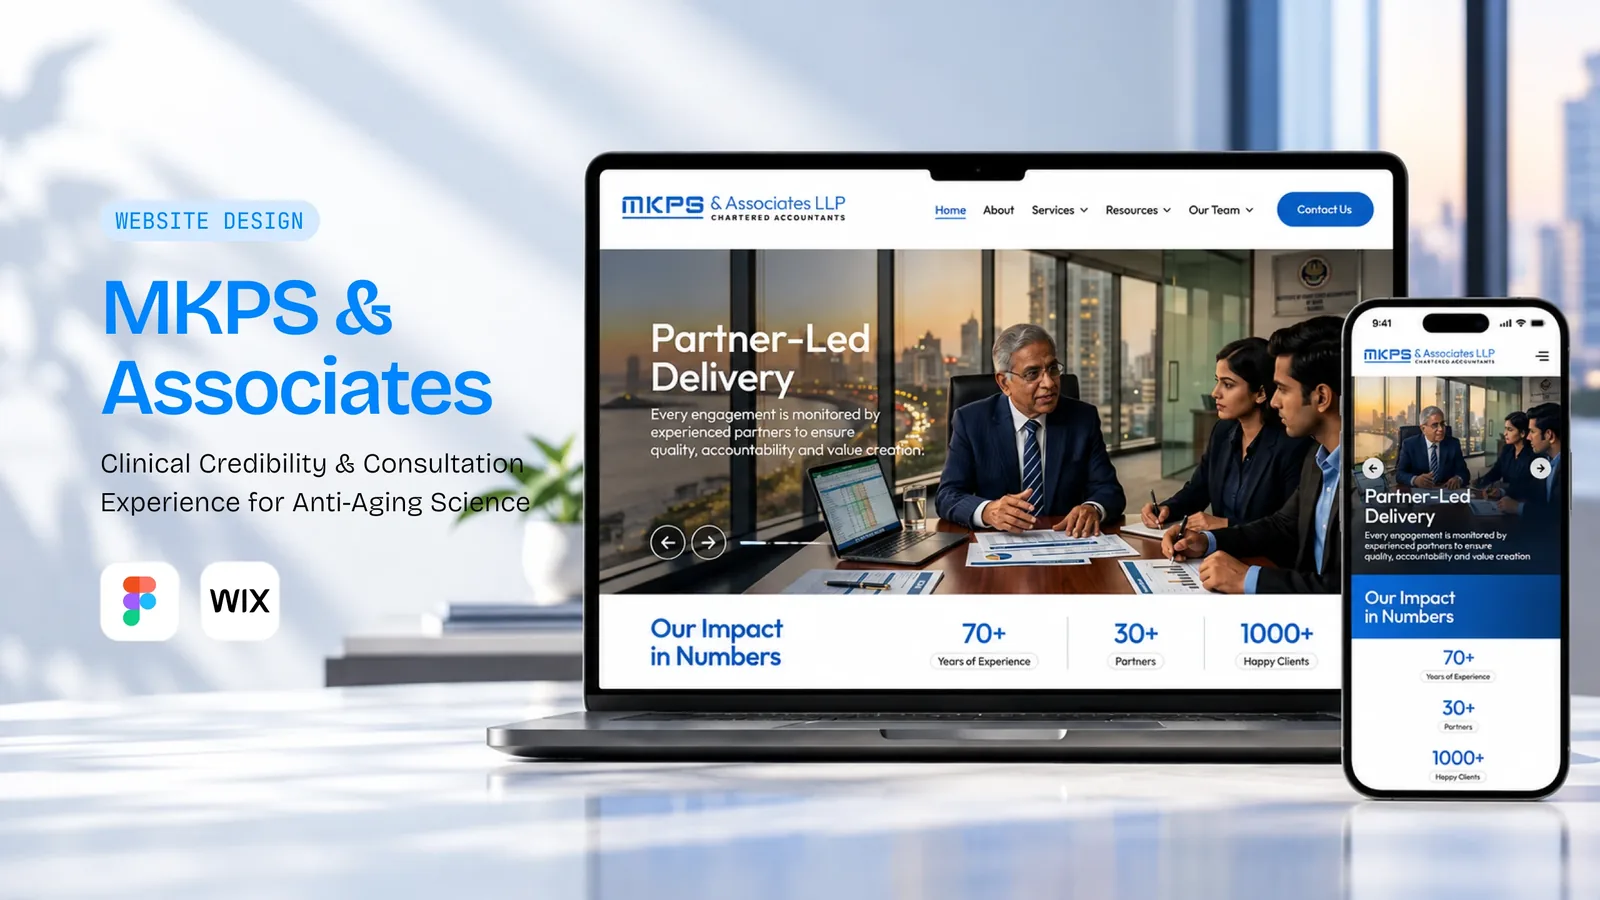
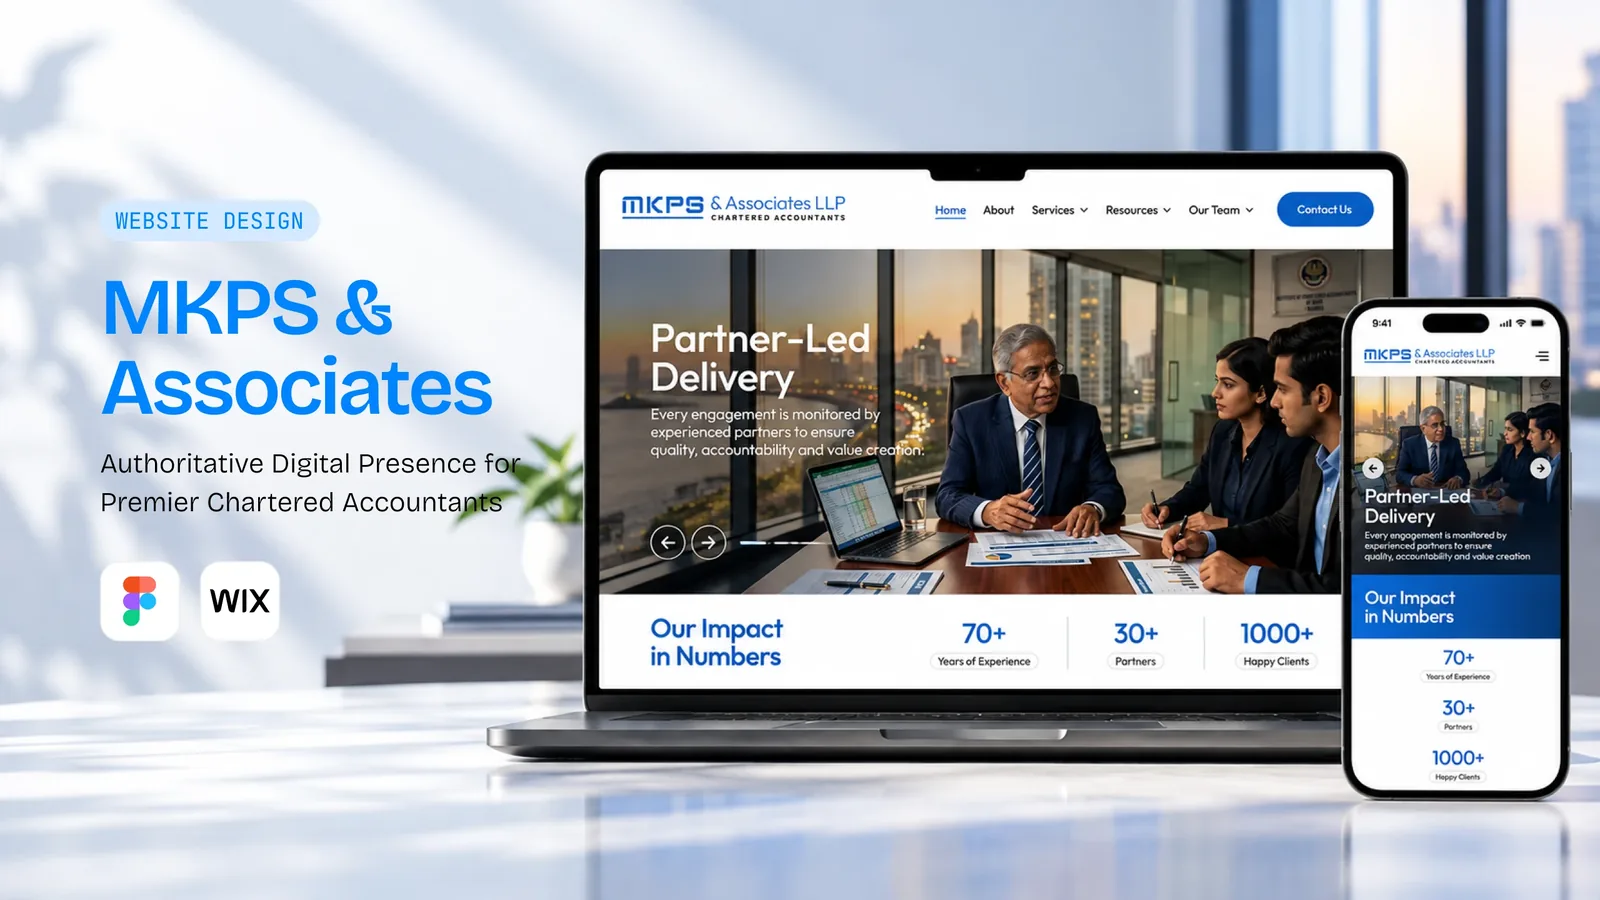
Real desktop and phone captures in "the finished site"
Each Website Design project ships one desktop and one phone capture, so the
section is now that pair rather than a row of labelled stand-ins. The columns
are split 77/23 — the same proportion as the two aspect ratios — so whatever
the gutter costs comes off both sides evenly and the shots land the same
height. The hairline is an outline rather than a border, since a border would
take layout width and throw that match off by a few pixels. Below 640px they
stack and the phone is capped at 190px, which would otherwise run to twice the
viewport height.

That drops the section from three blocks to two. Three was the right call when
all three were placeholders; there are two real captures per project and
padding the row back out would mean re-introducing a stand-in beside real art.

Also re-exports the MKPS & Associates thumbnail, which now carries its own
headline instead of DeAge's.

Sources are 31MB of PNG and JPEG; the committed webp copies are 1.15MB for all
twelve, at 1600px for the desktop shots and 720px for the phones.

Changed region(s): [[0.0625, 0.4978, 0.3438, 0.5911]]

diff --git a/assets/css/style.css b/assets/css/style.css
@@ -1542,6 +1542,15 @@ em, .em        { font-style: italic; font-weight: 500; }
   background: var(--mist); border: 1px solid var(--line); border-radius: var(--r-card);
 }
 .on-dark .shot__img { border-color: var(--line-dark); }
+/* A capture shown whole, at its own aspect — no crop, no fixed ratio. The
+   hairline is an outline rather than a border: it draws inside the box without
+   taking layout width, so the paired shots stay exactly the same height. */
+.shot__art {
+  display: block; width: 100%; height: auto;
+  background: var(--mist); border-radius: var(--r-card);
+  outline: 1px solid var(--line); outline-offset: -1px;
+}
+.on-dark .shot__art { outline-color: var(--line-dark); }
 .on-dark .shot__frame { background: var(--ink-2); border-color: var(--line-dark); }
 .on-dark .shot__label { background: var(--ink-3); border-color: var(--line-dark); color: var(--on-dark-2); }
 
@@ -1552,6 +1561,17 @@ em, .em        { font-style: italic; font-weight: 500; }
   .showcase { grid-template-columns: 1fr; }
   /* stacked, the wide block has no row to span — match the others */
   .showcase > .shot--wide .shot__frame { aspect-ratio: 16 / 10; }
+}
+
+/* Desktop capture beside its phone capture. The columns are split in the same
+   proportion as the two aspect ratios (3024/1964 : 1206/2622), so whatever the
+   gutter costs comes off both sides evenly and the pair lands the same height. */
+.showcase--pair { grid-template-columns: 77fr 23fr; align-items: start; }
+.showcase--pair > .shot--wide { grid-column: auto; }
+@media (max-width: 640px) {
+  .showcase--pair { grid-template-columns: 1fr; justify-items: center; }
+  /* full-bleed, the phone would run over twice the viewport height */
+  .showcase--pair > .shot--phone { width: min(190px, 60%); }
 }
 
 /* --- design decisions (website design) ------------------------------------ */

diff --git a/work/mkps-associates.html b/work/mkps-associates.html
@@ -297,21 +297,16 @@
         <h2 class="h2 sec-head__title">What <span class="hl">shipped.</span></h2>
       </div>
     </div>
-    <div class="showcase">
+    <div class="showcase showcase--pair">
       
       
       <figure class="shot shot--wide" data-reveal>
-        <div class="shot__frame"><span class="shot__label">MKPS Corporate Homepage &mdash; Desktop</span></div>
+        <img class="shot__art" src="../assets/img/work/mkps-associates-desktop.webp" alt="MKPS &amp; Associates corporate site on desktop" width="1600" height="1039" loading="lazy" decoding="async">
         
       </figure>
       
-      <figure class="shot " data-reveal>
-        <div class="shot__frame"><span class="shot__label">Practice Pillar &mdash; Tax &amp; Corporate Advisory</span></div>
-        
-      </figure>
-      
-      <figure class="shot " data-reveal>
-        <div class="shot__frame"><span class="shot__label">Partner Leadership Directory</span></div>
+      <figure class="shot  shot--phone" data-reveal>
+        <img class="shot__art" src="../assets/img/work/mkps-associates-mobile.webp" alt="MKPS &amp; Associates practice areas on mobile" width="720" height="1565" loading="lazy" decoding="async">
         
       </figure>
       

diff --git a/work/swastha-healthcare.html b/work/swastha-healthcare.html
@@ -297,21 +297,16 @@
         <h2 class="h2 sec-head__title">What <span class="hl">shipped.</span></h2>
       </div>
     </div>
-    <div class="showcase">
+    <div class="showcase showcase--pair">
       
       
       <figure class="shot shot--wide" data-reveal>
-        <div class="shot__frame"><span class="shot__label">Swastha Healthcare Homepage &mdash; Desktop</span></div>
+        <img class="shot__art" src="../assets/img/work/swastha-healthcare-desktop.webp" alt="Swastha Healthcare site on desktop" width="1600" height="1039" loading="lazy" decoding="async">
         
       </figure>
       
-      <figure class="shot " data-reveal>
-        <div class="shot__frame"><span class="shot__label">Doctor Profile &amp; Branch Visiting Hours</span></div>
-        
-      </figure>
-      
-      <figure class="shot " data-reveal>
-        <div class="shot__frame"><span class="shot__label">Preventative Health Check Packages</span></div>
+      <figure class="shot  shot--phone" data-reveal>
+        <img class="shot__art" src="../assets/img/work/swastha-healthcare-mobile.webp" alt="Swastha Healthcare appointment flow on mobile" width="720" height="1565" loading="lazy" decoding="async">
         
       </figure>
       

diff --git a/work/sacred-lotus-retreat.html b/work/sacred-lotus-retreat.html
@@ -297,21 +297,16 @@
         <h2 class="h2 sec-head__title">What <span class="hl">shipped.</span></h2>
       </div>
     </div>
-    <div class="showcase">
+    <div class="showcase showcase--pair">
       
       
       <figure class="shot shot--wide" data-reveal>
-        <div class="shot__frame"><span class="shot__label">Sacred Lotus Homepage &mdash; Hero Scroll</span></div>
+        <img class="shot__art" src="../assets/img/work/sacred-lotus-retreat-desktop.webp" alt="Sacred Lotus Retreat site on desktop" width="1600" height="1039" loading="lazy" decoding="async">
         
       </figure>
       
-      <figure class="shot " data-reveal>
-        <div class="shot__frame"><span class="shot__label">Wellness Program &amp; Therapy Itinerary</span></div>
-        
-      </figure>
-      
-      <figure class="shot " data-reveal>
-        <div class="shot__frame"><span class="shot__label">Eco-Cottage Accommodation Gallery</span></div>
+      <figure class="shot  shot--phone" data-reveal>
+        <img class="shot__art" src="../assets/img/work/sacred-lotus-retreat-mobile.webp" alt="Sacred Lotus Retreat booking flow on mobile" width="720" height="1565" loading="lazy" decoding="async">
         
       </figure>
       

diff --git a/work/aarshaveda.html b/work/aarshaveda.html
@@ -297,21 +297,16 @@
         <h2 class="h2 sec-head__title">What <span class="hl">shipped.</span></h2>
       </div>
     </div>
-    <div class="showcase">
+    <div class="showcase showcase--pair">
       
       
       <figure class="shot shot--wide" data-reveal>
-        <div class="shot__frame"><span class="shot__label">Aarshaveda Storefront &mdash; Full Desktop Scroll</span></div>
+        <img class="shot__art" src="../assets/img/work/aarshaveda-desktop.webp" alt="Aarshaveda storefront on desktop" width="1600" height="1039" loading="lazy" decoding="async">
         
       </figure>
       
-      <figure class="shot " data-reveal>
-        <div class="shot__frame"><span class="shot__label">Product Detail Page &mdash; Mobile View</span></div>
-        
-      </figure>
-      
-      <figure class="shot " data-reveal>
-        <div class="shot__frame"><span class="shot__label">Wellness Regimen &amp; Bundle Builder</span></div>
+      <figure class="shot  shot--phone" data-reveal>
+        <img class="shot__art" src="../assets/img/work/aarshaveda-mobile.webp" alt="Aarshaveda product browsing on mobile" width="720" height="1565" loading="lazy" decoding="async">
         
       </figure>
       

diff --git a/work/shap-infotech.html b/work/shap-infotech.html
@@ -297,21 +297,16 @@
         <h2 class="h2 sec-head__title">What <span class="hl">shipped.</span></h2>
       </div>
     </div>
-    <div class="showcase">
+    <div class="showcase showcase--pair">
       
       
       <figure class="shot shot--wide" data-reveal>
-        <div class="shot__frame"><span class="shot__label">Shap Infotech Homepage &mdash; Desktop</span></div>
+        <img class="shot__art" src="../assets/img/work/shap-infotech-desktop.webp" alt="Shap Infotech site on desktop" width="1600" height="1039" loading="lazy" decoding="async">
         
       </figure>
       
-      <figure class="shot " data-reveal>
-        <div class="shot__frame"><span class="shot__label">Cloud &amp; DevOps Service Hub</span></div>
-        
-      </figure>
-      
-      <figure class="shot " data-reveal>
-        <div class="shot__frame"><span class="shot__label">Engagement Models &amp; Delivery Framework</span></div>
+      <figure class="shot  shot--phone" data-reveal>
+        <img class="shot__art" src="../assets/img/work/shap-infotech-mobile.webp" alt="Shap Infotech service hub on mobile" width="720" height="1565" loading="lazy" decoding="async">
         
       </figure>
       

diff --git a/work/deage.html b/work/deage.html
@@ -297,21 +297,16 @@
         <h2 class="h2 sec-head__title">What <span class="hl">shipped.</span></h2>
       </div>
     </div>
-    <div class="showcase">
+    <div class="showcase showcase--pair">
       
       
       <figure class="shot shot--wide" data-reveal>
-        <div class="shot__frame"><span class="shot__label">DeAge Flagship Homepage &mdash; Desktop</span></div>
+        <img class="shot__art" src="../assets/img/work/deage-desktop.webp" alt="DeAge storefront on desktop" width="1600" height="1039" loading="lazy" decoding="async">
         
       </figure>
       
-      <figure class="shot " data-reveal>
-        <div class="shot__frame"><span class="shot__label">Treatment Protocol &amp; Downtime Guide</span></div>
-        
-      </figure>
-      
-      <figure class="shot " data-reveal>
-        <div class="shot__frame"><span class="shot__label">Curated Formulations &mdash; Product Grid</span></div>
+      <figure class="shot  shot--phone" data-reveal>
+        <img class="shot__art" src="../assets/img/work/deage-mobile.webp" alt="DeAge longevity range on mobile" width="720" height="1565" loading="lazy" decoding="async">
         
       </figure>
       

diff --git a/templates/case-website-design.html b/templates/case-website-design.html
@@ -143,12 +143,12 @@
         <h2 class="h2 sec-head__title">What <span class="hl">shipped.</span></h2>
       </div>
     </div>
-    <div class="showcase">
+    <div class="showcase{{#showcasePair}} showcase--pair{{/showcasePair}}">
       {{/showcase.0}}
       {{#showcase}}
-      <figure class="shot {{#wide}}shot--wide{{/wide}}" data-reveal>
-        <div class="shot__frame"><span class="shot__label">{{{label}}}</span></div>
-        {{#caption}}<figcaption>{{{.}}}</figcaption>{{/caption}}
+      <figure class="shot {{#wide}}shot--wide{{/wide}}{{#phone}} shot--phone{{/phone}}" data-reveal>
+        {{#src}}<img class="shot__art" src="{{base}}{{src}}" alt="{{alt}}" width="{{w}}" height="{{h}}" loading="lazy" decoding="async">{{/src}}
+        {{^src}}<div class="shot__frame"><span class="shot__label">{{{label}}}</span></div>{{/src}}
       </figure>
       {{/showcase}}
       {{#showcase.0}}

diff --git a/build.js b/build.js
@@ -177,6 +177,7 @@ for (const p of projects) {
 
   const scope = Object.assign({}, p, {
     meta: metaBlocks,
+    showcasePair: Array.isArray(p.showcase) && p.showcase.length > 0 && p.showcase.every(s => s.src),
     base: '../',
     serviceLabel: svc.label,
     serviceShort: svc.short || svc.label,
